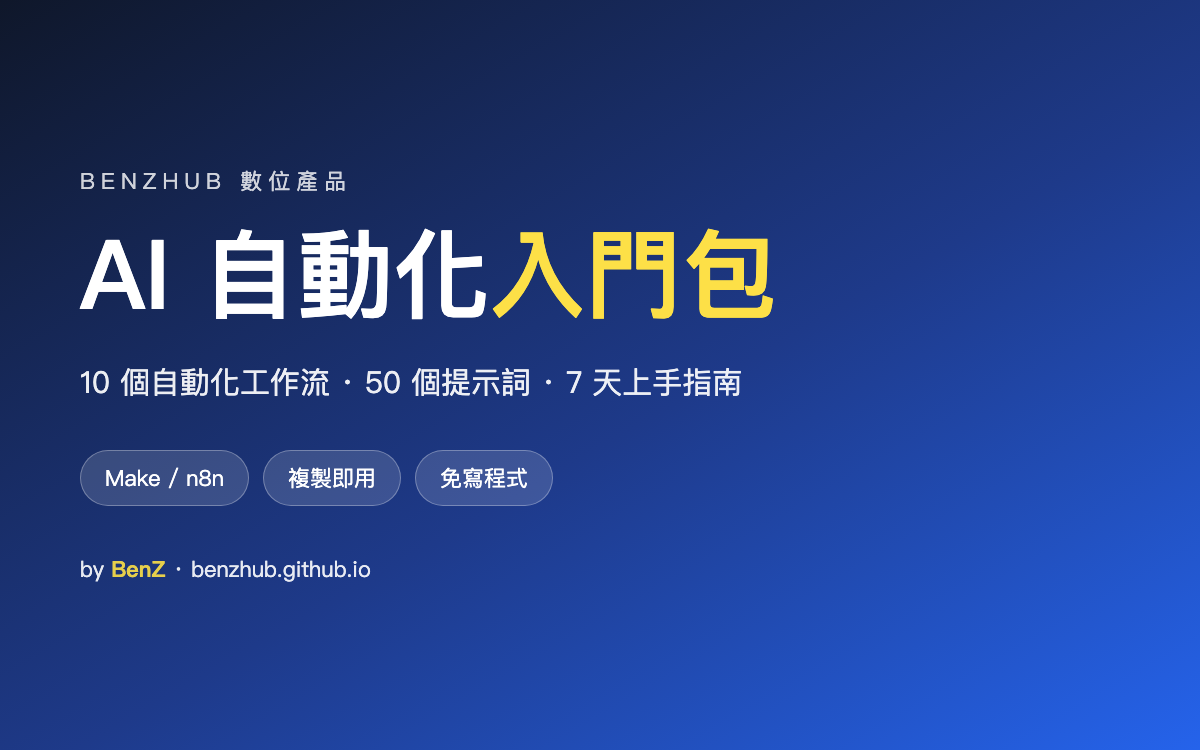
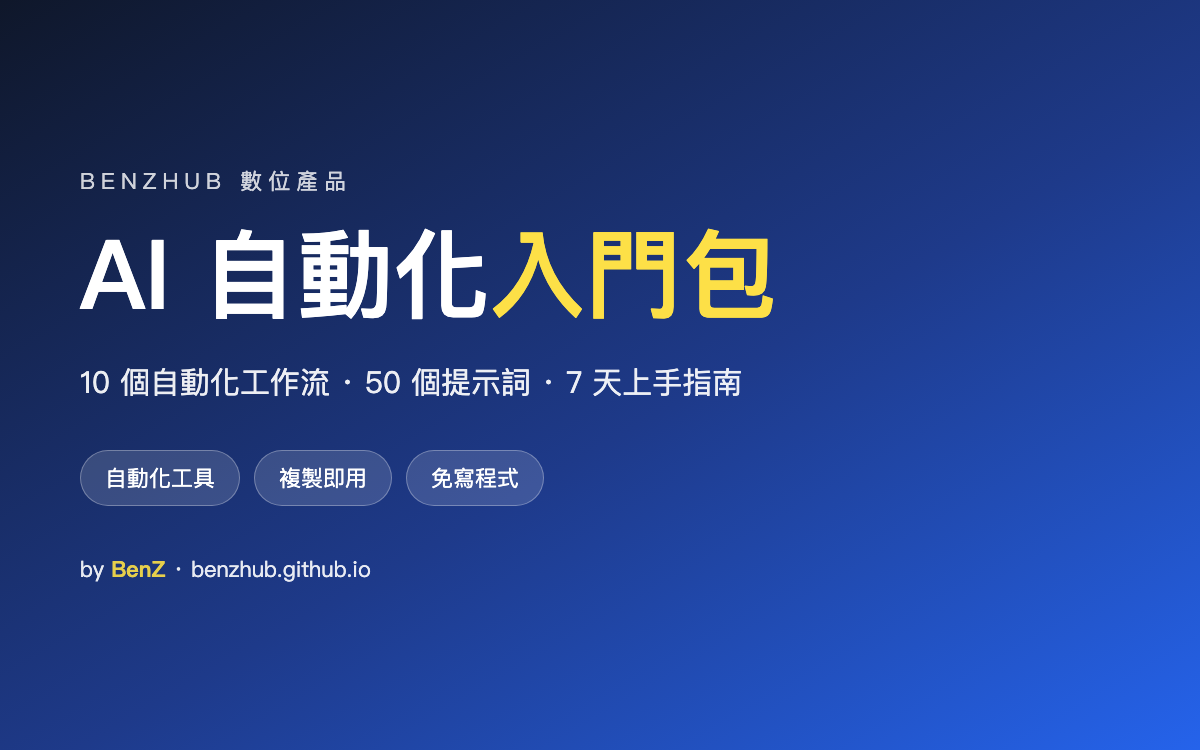
style: improve product buy button + genericize automation tool names

Changed region(s): [[0.0925, 0.5827, 0.4625, 0.6747]]

diff --git a/products/ai-starter-kit/index.html b/products/ai-starter-kit/index.html
@@ -27,5 +27,5 @@
 <a href=/en/ class="block px-4 py-2 text-sm text-zinc-600 dark:text-zinc-400 hover:bg-zinc-100 dark:hover:bg-zinc-700 transition-colors duration-200 no-underline">English</a>
 <a href=/zh-cn/ class="block px-4 py-2 text-sm text-zinc-600 dark:text-zinc-400 hover:bg-zinc-100 dark:hover:bg-zinc-700 transition-colors duration-200 no-underline">简体中文</a></div></div><div class="lang-switcher-mobile md:hidden mt-4 pt-4 border-t border-zinc-200 dark:border-zinc-700"><p class="text-xs text-zinc-400 dark:text-zinc-500 uppercase tracking-wider mb-2">Language</p><div class="flex gap-2"><span class="px-3 py-1.5 rounded-full text-xs font-medium bg-blue-500 text-white">繁體中文</span>
 <a href=/en/ class="px-3 py-1.5 rounded-full text-xs text-zinc-500 dark:text-zinc-400 bg-zinc-100 dark:bg-zinc-800 hover:bg-zinc-200 dark:hover:bg-zinc-700 transition-colors duration-200 no-underline">English</a>
-<a href=/zh-cn/ class="px-3 py-1.5 rounded-full text-xs text-zinc-500 dark:text-zinc-400 bg-zinc-100 dark:bg-zinc-800 hover:bg-zinc-200 dark:hover:bg-zinc-700 transition-colors duration-200 no-underline">简体中文</a></div></div></div></nav><script>document.getElementById("hamburgerbtn").addEventListener("click",function(){document.getElementById("mobileMenu").classList.toggle("active")}),window.addEventListener("scroll",function(){var e=document.getElementById("siteNav");window.scrollY>50?e.classList.add("scrolled"):e.classList.remove("scrolled")});function toggleNavSearch(){var e=document.getElementById("navSearchInput");e.classList.toggle("expanded"),e.classList.contains("expanded")&&e.focus()}function toggleLangMenu(){var e=document.getElementById("langDropdown");e.classList.toggle("hidden")}document.addEventListener("click",function(e){var t,o,n=document.getElementById("navSearchForm"),s=document.getElementById("navSearchInput");n&&s&&!n.contains(e.target)&&!e.target.closest('[aria-label="Toggle Search"]')&&s.classList.remove("expanded"),o=e.target.closest(".lang-switcher"),o||(t=document.getElementById("langDropdown"),t&&t.classList.add("hidden"))})</script><div class=nav-spacer></div><div class="container max-w-screen-xl mx-auto mt-4 flex-grow px-5 lg:px-0" id=content><div class=lg:mx-5><article class="max-w-3xl mx-auto px-5 py-8"><h1 class="text-3xl font-bold mb-3">AI 自動化入門包</h1><p class="text-lg text-zinc-600 dark:text-zinc-300 mb-6">把重複的工作交給 AI。10 個 step-by-step 自動化工作流 + 50 個複製即用的提示詞 + 7 天上手指南。</p><img src=/img/products/ai-starter-kit.png alt="AI 自動化入門包" class="w-full rounded-xl mb-8"><div class="bg-blue-50 dark:bg-zinc-800 rounded-xl p-6 mb-8"><h2 class="text-lg font-bold mb-3">包含內容</h2><ul class=space-y-2><li class="flex gap-2"><span class=text-blue-600>✓</span><span>10 個實戰自動化工作流(step-by-step 食譜,Make / n8n / GPTs)</span></li><li class="flex gap-2"><span class=text-blue-600>✓</span><span>50 個精選提示詞,分 6 大類、複製即用</span></li><li class="flex gap-2"><span class=text-blue-600>✓</span><span>新手 7 天啟動計畫,照著做就跑得起來</span></li><li class="flex gap-2"><span class=text-blue-600>✓</span><span>PDF 格式,手機電腦都能看,永久保存</span></li></ul></div><div class="prose dark:prose-invert max-w-none mb-10"><h2 id=你每天有多少時間花在重複的事上>你每天,有多少時間花在「重複的事」上?</h2><p>整理資料、回覆一樣的訊息、把長文改成社群貼文、抄會議筆記、對帳……
-這些事不難,但<strong>它們一直吃掉你本來可以拿去做更重要事情的時間</strong>。</p><p>AI 最實際的用途,不是拿來「聊天」,而是<strong>把這些重複勞動自動化</strong> —— 設定一次,之後自動跑。</p><h2 id=這份入門包給你可以今天就照做的操作>這份入門包,給你可以「今天就照做」的操作</h2><p>不是理論、不是「AI 很厲害」的空話。裡面是我實際在用、整理成 <strong>step-by-step 食譜</strong>的具體流程:</p><ul><li><strong>10 個實戰自動化工作流</strong> —— 每個都標明「觸發 → AI 處理 → 輸出」三段,附用到的工具與設定步驟。從「長文一鍵生成社群貼文」到「會議錄音自動出摘要與待辦」,挑一個最有感的,照著設定就能跑。</li><li><strong>50 個精選提示詞</strong> —— 分內容創作、行銷、客服、生產力、分析決策、程式技術 6 大類。把 <code>[中括號]</code> 換成你的內容,複製即用。</li><li><strong>新手 7 天啟動計畫</strong> —— 不用一次全做。7 天內讓「一個」自動化真正跑起來,建立手感與信心。</li></ul><h2 id=適合誰>適合誰</h2><p>想用 AI 幫自己省時間、但不知道「具體要怎麼做」的人。<strong>不需要會寫程式</strong> —— 工作流都用免寫程式的工具(Make / n8n)拖拉設定。</p><h2 id=你會得到的不只是一份-pdf>你會得到的,不只是一份 PDF</h2><p>而是一個能複製到任何情境的思考模型:<strong>觸發 → AI 處理 → 輸出</strong>。看懂這三段,你就能自己設計任何自動化。</p><p>一個流程、省下一小時,就已經開始複利。</p></div><div class="text-center bg-zinc-50 dark:bg-zinc-800 rounded-xl p-8 mb-10"><div class="text-3xl font-bold mb-4">690 <span class=text-lg>TWD</span></div><a href=https://buy.stripe.com/28E3co0YXdqA7n4eEKdEs01 class="inline-block bg-blue-600 hover:bg-blue-700 text-white font-semibold px-8 py-3 rounded-lg no-underline">立即購買</a><p class="text-xs text-zinc-500 mt-3">安全結帳由 Stripe 提供 · 付款後下載連結寄到你的信箱</p></div><div class=mb-8><h2 class="text-xl font-bold mb-4">常見問題</h2><div class=mb-4><p class=font-semibold>購買後怎麼拿到檔案?</p><p class="text-zinc-600 dark:text-zinc-300">付款完成後,專屬下載連結會立即寄到你結帳時填的 email。點連結即可下載 PDF。</p></div><div class=mb-4><p class=font-semibold>這適合完全不懂技術的人嗎?</p><p class="text-zinc-600 dark:text-zinc-300">適合。工作流都是「免寫程式」的食譜(用 Make/n8n 拖拉設定),並附新手 7 天計畫,一步步帶你跑起來。</p></div><div class=mb-4><p class=font-semibold>跟免費的「AI 賺錢工具地圖」有什麼不同?</p><p class="text-zinc-600 dark:text-zinc-300">工具地圖告訴你「方向」;這份入門包給你「可以直接照做的操作」—— 具體的自動化食譜與提示詞。</p></div><div class=mb-4><p class=font-semibold>可以退款嗎?</p><p class="text-zinc-600 dark:text-zinc-300">數位產品原則上不退款;若檔案打不開或有問題,直接回信我會馬上處理。</p></div></div></article></div></div><footer class="site-footer bg-zinc-50 dark:bg-[#0a0a0a]"><p>&copy; 2026 <a href=https://benzhub.github.io/ class="text-zinc-500 hover:text-zinc-700 dark:hover:text-zinc-300 transition-colors duration-200">BenzHub</a></p></footer><script src=https://challenges.cloudflare.com/turnstile/v0/api.js async defer></script><script src=/js/subscribe.js defer></script><script>(function(e,t){function o(){var n,e=t.createElement("script");e.async=!0,e.src="https://pagead2.googlesyndication.com/pagead/js/adsbygoogle.js?client=ca-pub-4883636813621606",e.crossOrigin="anonymous",n=t.getElementsByTagName("script")[0],n.parentNode.insertBefore(e,n)}var s=!1;function n(){s===!1&&(s=!0,e.removeEventListener("scroll",n),e.removeEventListener("mousemove",n),e.removeEventListener("mousedown",n),e.removeEventListener("touchstart",n),e.removeEventListener("keydown",n),o())}e.addEventListener("scroll",n),e.addEventListener("mousemove",n),e.addEventListener("mousedown",n),e.addEventListener("touchstart",n),e.addEventListener("keydown",n),e.addEventListener("load",function(){e.pageYOffset&&(n(),e.setTimeout(n,3e3))})})(window,document)</script><script>var icon=document.getElementById("icon"),icon2=document.getElementById("icon2");document.documentElement.classList.contains("dark")||localStorage.theme==="dark"||!("theme"in localStorage)&&window.matchMedia("(prefers-color-scheme: dark)").matches?(icon&&(icon.classList.remove("icon-moon"),icon.classList.add("icon-sun")),icon2&&(icon2.classList.remove("icon-moon"),icon2.classList.add("icon-sun")),document.documentElement.classList.add("dark")):document.documentElement.classList.remove("dark");function toggleDarkMode(){document.documentElement.classList.contains("dark")?(icon&&(icon.classList.remove("icon-sun"),icon.classList.add("icon-moon")),icon2&&(icon2.classList.remove("icon-sun"),icon2.classList.add("icon-moon")),document.documentElement.classList.remove("dark"),localStorage.theme="light"):(icon&&(icon.classList.remove("icon-moon"),icon.classList.add("icon-sun")),icon2&&(icon2.classList.remove("icon-moon"),icon2.classList.add("icon-sun")),document.documentElement.classList.add("dark"),localStorage.theme="dark")}document.addEventListener("DOMContentLoaded",function(){var e=new IntersectionObserver(function(t){t.forEach(function(t){t.isIntersecting&&(t.target.classList.add("visible"),e.unobserve(t.target))})},{threshold:0});document.querySelectorAll(".fade-in").forEach(function(t){e.observe(t)})})</script></body></html>
+<a href=/zh-cn/ class="px-3 py-1.5 rounded-full text-xs text-zinc-500 dark:text-zinc-400 bg-zinc-100 dark:bg-zinc-800 hover:bg-zinc-200 dark:hover:bg-zinc-700 transition-colors duration-200 no-underline">简体中文</a></div></div></div></nav><script>document.getElementById("hamburgerbtn").addEventListener("click",function(){document.getElementById("mobileMenu").classList.toggle("active")}),window.addEventListener("scroll",function(){var e=document.getElementById("siteNav");window.scrollY>50?e.classList.add("scrolled"):e.classList.remove("scrolled")});function toggleNavSearch(){var e=document.getElementById("navSearchInput");e.classList.toggle("expanded"),e.classList.contains("expanded")&&e.focus()}function toggleLangMenu(){var e=document.getElementById("langDropdown");e.classList.toggle("hidden")}document.addEventListener("click",function(e){var t,o,n=document.getElementById("navSearchForm"),s=document.getElementById("navSearchInput");n&&s&&!n.contains(e.target)&&!e.target.closest('[aria-label="Toggle Search"]')&&s.classList.remove("expanded"),o=e.target.closest(".lang-switcher"),o||(t=document.getElementById("langDropdown"),t&&t.classList.add("hidden"))})</script><div class=nav-spacer></div><div class="container max-w-screen-xl mx-auto mt-4 flex-grow px-5 lg:px-0" id=content><div class=lg:mx-5><article class="max-w-3xl mx-auto px-5 py-8"><h1 class="text-3xl font-bold mb-3">AI 自動化入門包</h1><p class="text-lg text-zinc-600 dark:text-zinc-300 mb-6">把重複的工作交給 AI。10 個 step-by-step 自動化工作流 + 50 個複製即用的提示詞 + 7 天上手指南。</p><img src=/img/products/ai-starter-kit.png alt="AI 自動化入門包" class="w-full rounded-xl mb-8"><div class="bg-blue-50 dark:bg-zinc-800 rounded-xl p-6 mb-8"><h2 class="text-lg font-bold mb-3">包含內容</h2><ul class=space-y-2><li class="flex gap-2"><span class=text-blue-600>✓</span><span>10 個實戰自動化工作流,step-by-step 食譜,免寫程式</span></li><li class="flex gap-2"><span class=text-blue-600>✓</span><span>50 個精選提示詞,分 6 大類、複製即用</span></li><li class="flex gap-2"><span class=text-blue-600>✓</span><span>新手 7 天啟動計畫,照著做就跑得起來</span></li><li class="flex gap-2"><span class=text-blue-600>✓</span><span>PDF 格式,手機電腦都能看,永久保存</span></li></ul></div><div class="prose dark:prose-invert max-w-none mb-10"><h2 id=你每天有多少時間花在重複的事上>你每天,有多少時間花在「重複的事」上?</h2><p>整理資料、回覆一樣的訊息、把長文改成社群貼文、抄會議筆記、對帳……
+這些事不難,但<strong>它們一直吃掉你本來可以拿去做更重要事情的時間</strong>。</p><p>AI 最實際的用途,不是拿來「聊天」,而是<strong>把這些重複勞動自動化</strong> —— 設定一次,之後自動跑。</p><h2 id=這份入門包給你可以今天就照做的操作>這份入門包,給你可以「今天就照做」的操作</h2><p>不是理論、不是「AI 很厲害」的空話。裡面是我實際在用、整理成 <strong>step-by-step 食譜</strong>的具體流程:</p><ul><li><strong>10 個實戰自動化工作流</strong> —— 每個都標明「觸發 → AI 處理 → 輸出」三段,附用到的工具與設定步驟。從「長文一鍵生成社群貼文」到「會議錄音自動出摘要與待辦」,挑一個最有感的,照著設定就能跑。</li><li><strong>50 個精選提示詞</strong> —— 分內容創作、行銷、客服、生產力、分析決策、程式技術 6 大類。把 <code>[中括號]</code> 換成你的內容,複製即用。</li><li><strong>新手 7 天啟動計畫</strong> —— 不用一次全做。7 天內讓「一個」自動化真正跑起來,建立手感與信心。</li></ul><h2 id=適合誰>適合誰</h2><p>想用 AI 幫自己省時間、但不知道「具體要怎麼做」的人。<strong>不需要會寫程式</strong> —— 工作流都用免寫程式的視覺化自動化工具,拖拉設定即可。</p><h2 id=你會得到的不只是一份-pdf>你會得到的,不只是一份 PDF</h2><p>而是一個能複製到任何情境的思考模型:<strong>觸發 → AI 處理 → 輸出</strong>。看懂這三段,你就能自己設計任何自動化。</p><p>一個流程、省下一小時,就已經開始複利。</p></div><div class="text-center bg-gradient-to-b from-blue-50 to-white dark:from-zinc-800 dark:to-zinc-900 border border-blue-100 dark:border-zinc-700 rounded-2xl px-6 py-10 mb-10"><div class="flex items-baseline justify-center gap-2 mb-1"><span class="text-5xl font-extrabold text-zinc-900 dark:text-white">NT$ 690</span></div><p class="text-sm text-zinc-500 mb-6">一次購買 · 永久使用 · 立即下載</p><a href=https://buy.stripe.com/28E3co0YXdqA7n4eEKdEs01 class="inline-flex items-center justify-center gap-2 w-full sm:w-auto bg-blue-600 hover:bg-blue-700 active:bg-blue-800 text-white text-lg font-bold tracking-wide px-14 py-4 rounded-xl shadow-lg shadow-blue-600/30 hover:shadow-xl hover:-translate-y-0.5 transition-all duration-200 no-underline">立即購買 <span aria-hidden=true>→</span></a><p class="text-xs text-zinc-500 mt-4">🔒 安全結帳由 Stripe 提供 · 付款後下載連結立即寄到你的信箱</p></div><div class=mb-8><h2 class="text-xl font-bold mb-4">常見問題</h2><div class=mb-4><p class=font-semibold>購買後怎麼拿到檔案?</p><p class="text-zinc-600 dark:text-zinc-300">付款完成後,專屬下載連結會立即寄到你結帳時填的 email。點連結即可下載 PDF。</p></div><div class=mb-4><p class=font-semibold>這適合完全不懂技術的人嗎?</p><p class="text-zinc-600 dark:text-zinc-300">適合。工作流都是「免寫程式」的食譜,用視覺化的自動化工具拖拉設定即可,並附新手 7 天計畫,一步步帶你跑起來。</p></div><div class=mb-4><p class=font-semibold>跟免費的「AI 賺錢工具地圖」有什麼不同?</p><p class="text-zinc-600 dark:text-zinc-300">工具地圖告訴你「方向」;這份入門包給你「可以直接照做的操作」—— 具體的自動化食譜與提示詞。</p></div><div class=mb-4><p class=font-semibold>可以退款嗎?</p><p class="text-zinc-600 dark:text-zinc-300">數位產品原則上不退款;若檔案打不開或有問題,直接回信我會馬上處理。</p></div></div></article></div></div><footer class="site-footer bg-zinc-50 dark:bg-[#0a0a0a]"><p>&copy; 2026 <a href=https://benzhub.github.io/ class="text-zinc-500 hover:text-zinc-700 dark:hover:text-zinc-300 transition-colors duration-200">BenzHub</a></p></footer><script src=https://challenges.cloudflare.com/turnstile/v0/api.js async defer></script><script src=/js/subscribe.js defer></script><script>(function(e,t){function o(){var n,e=t.createElement("script");e.async=!0,e.src="https://pagead2.googlesyndication.com/pagead/js/adsbygoogle.js?client=ca-pub-4883636813621606",e.crossOrigin="anonymous",n=t.getElementsByTagName("script")[0],n.parentNode.insertBefore(e,n)}var s=!1;function n(){s===!1&&(s=!0,e.removeEventListener("scroll",n),e.removeEventListener("mousemove",n),e.removeEventListener("mousedown",n),e.removeEventListener("touchstart",n),e.removeEventListener("keydown",n),o())}e.addEventListener("scroll",n),e.addEventListener("mousemove",n),e.addEventListener("mousedown",n),e.addEventListener("touchstart",n),e.addEventListener("keydown",n),e.addEventListener("load",function(){e.pageYOffset&&(n(),e.setTimeout(n,3e3))})})(window,document)</script><script>var icon=document.getElementById("icon"),icon2=document.getElementById("icon2");document.documentElement.classList.contains("dark")||localStorage.theme==="dark"||!("theme"in localStorage)&&window.matchMedia("(prefers-color-scheme: dark)").matches?(icon&&(icon.classList.remove("icon-moon"),icon.classList.add("icon-sun")),icon2&&(icon2.classList.remove("icon-moon"),icon2.classList.add("icon-sun")),document.documentElement.classList.add("dark")):document.documentElement.classList.remove("dark");function toggleDarkMode(){document.documentElement.classList.contains("dark")?(icon&&(icon.classList.remove("icon-sun"),icon.classList.add("icon-moon")),icon2&&(icon2.classList.remove("icon-sun"),icon2.classList.add("icon-moon")),document.documentElement.classList.remove("dark"),localStorage.theme="light"):(icon&&(icon.classList.remove("icon-moon"),icon.classList.add("icon-sun")),icon2&&(icon2.classList.remove("icon-moon"),icon2.classList.add("icon-sun")),document.documentElement.classList.add("dark"),localStorage.theme="dark")}document.addEventListener("DOMContentLoaded",function(){var e=new IntersectionObserver(function(t){t.forEach(function(t){t.isIntersecting&&(t.target.classList.add("visible"),e.unobserve(t.target))})},{threshold:0});document.querySelectorAll(".fade-in").forEach(function(t){e.observe(t)})})</script></body></html>

diff --git a/tags/nodejs/index.html b/tags/nodejs/index.html
@@ -1,4 +1,4 @@
-<!doctype html><html lang=zh-TW><head><script async src="https://www.googletagmanager.com/gtag/js?id=G-FSEWPBJMJT"></script><script>window.dataLayer=window.dataLayer||[];function gtag(){dataLayer.push(arguments)}gtag("js",new Date),gtag("config","G-FSEWPBJMJT")</script><title>NodeJS | BenzHub</title><meta charset=utf-8><meta name=viewport content="width=device-width,initial-scale=1,minimum-scale=1"><link rel=preconnect href=https://fonts.googleapis.com><link rel=preconnect href=https://fonts.gstatic.com crossorigin><link href="https://fonts.googleapis.com/css2?family=Inter:wght@300;400;500;600;700&display=swap" rel=stylesheet><link rel=apple-touch-icon sizes=180x180 href=/favicon/apple-touch-icon.png><link rel=icon type=image/png sizes=32x32 href=/favicon/favicon-32x32.png><link rel=icon type=image/png sizes=16x16 href=/favicon/favicon-16x16.png><link rel=manifest href=/favicon/site.webmanifest><link rel=mask-icon href=/favicon/safari-pinned-tab.svg color=#5bbad5><link rel="shortcut icon" href=/favicon/favicon.ico><meta name=theme-color content="#fafafa"><meta property="og:title" content="NodeJS | BenzHub"><link rel=stylesheet href="/css/style.min.201494ddcd70f7b4383e7a5589da06d9fa8396271447024f86259380300d97f7.css"><link href=/css/blonde.min.css rel=stylesheet type=text/css media=print onload='this.media=" all"'><meta name=description content="BenzHub 技術部落格"><meta property="og:site_name" content="BenzHub"><meta property="og:description" content="BenzHub 技術部落格"><meta property="og:url" content="https://benzhub.github.io/tags/nodejs/"><meta property="og:type" content="website"><meta property="og:locale" content="zh_TW"><meta name=twitter:card content="summary_large_image"><meta name=twitter:site content><link rel=canonical href=https://benzhub.github.io/tags/nodejs/><meta name=twitter:description content="BenzHub 技術部落格"><meta property="article:published_time" content="2026-04-18T00:00:00+00:00"><meta property="article:updated_time" content="2026-05-16T00:00:00+00:00"><meta property="og:image" content="https://benzhub.github.io/"><meta property="og:image:url" content="https://benzhub.github.io/"><link rel=stylesheet href=/css/custom.css><i class="dark hidden"></i>
+<!doctype html><html lang=zh-TW><head><script async src="https://www.googletagmanager.com/gtag/js?id=G-FSEWPBJMJT"></script><script>window.dataLayer=window.dataLayer||[];function gtag(){dataLayer.push(arguments)}gtag("js",new Date),gtag("config","G-FSEWPBJMJT")</script><title>Nodejs | BenzHub</title><meta charset=utf-8><meta name=viewport content="width=device-width,initial-scale=1,minimum-scale=1"><link rel=preconnect href=https://fonts.googleapis.com><link rel=preconnect href=https://fonts.gstatic.com crossorigin><link href="https://fonts.googleapis.com/css2?family=Inter:wght@300;400;500;600;700&display=swap" rel=stylesheet><link rel=apple-touch-icon sizes=180x180 href=/favicon/apple-touch-icon.png><link rel=icon type=image/png sizes=32x32 href=/favicon/favicon-32x32.png><link rel=icon type=image/png sizes=16x16 href=/favicon/favicon-16x16.png><link rel=manifest href=/favicon/site.webmanifest><link rel=mask-icon href=/favicon/safari-pinned-tab.svg color=#5bbad5><link rel="shortcut icon" href=/favicon/favicon.ico><meta name=theme-color content="#fafafa"><meta property="og:title" content="Nodejs | BenzHub"><link rel=stylesheet href="/css/style.min.201494ddcd70f7b4383e7a5589da06d9fa8396271447024f86259380300d97f7.css"><link href=/css/blonde.min.css rel=stylesheet type=text/css media=print onload='this.media=" all"'><meta name=description content="BenzHub 技術部落格"><meta property="og:site_name" content="BenzHub"><meta property="og:description" content="BenzHub 技術部落格"><meta property="og:url" content="https://benzhub.github.io/tags/nodejs/"><meta property="og:type" content="website"><meta property="og:locale" content="zh_TW"><meta name=twitter:card content="summary_large_image"><meta name=twitter:site content><link rel=canonical href=https://benzhub.github.io/tags/nodejs/><meta name=twitter:description content="BenzHub 技術部落格"><meta property="article:published_time" content="2026-04-18T00:00:00+00:00"><meta property="article:updated_time" content="2026-05-16T00:00:00+00:00"><meta property="og:image" content="https://benzhub.github.io/"><meta property="og:image:url" content="https://benzhub.github.io/"><link rel=stylesheet href=/css/custom.css><i class="dark hidden"></i>
 <link rel=alternate hreflang=zh-TW href=https://benzhub.github.io/tags/nodejs/><link rel=alternate hreflang=en href=https://benzhub.github.io/en/tags/nodejs/><link rel=alternate hreflang=x-default href=https://benzhub.github.io/tags/nodejs/><link rel=alternate type=application/rss+xml title=BenzHub href=https://benzhub.github.io/tags/nodejs/index.xml></head><body class="font-sans bg-zinc-50 text-zinc-950 dark:bg-[#0a0a0a] dark:text-zinc-50"><nav class=site-nav id=siteNav><div class="container max-w-screen-xl mx-auto px-5 lg:px-6 flex items-center justify-between w-full"><a href=https://benzhub.github.io/ class="text-lg font-semibold tracking-wide text-zinc-950 dark:text-zinc-50 hover:opacity-70 transition-opacity duration-200">BenzHub</a><div class="hidden md:flex items-center gap-6"><a href=/ class="text-sm text-zinc-500 hover:text-zinc-950 dark:text-zinc-400 dark:hover:text-zinc-50 transition-colors duration-200">首頁
 </a><a href=/about/ class="text-sm text-zinc-500 hover:text-zinc-950 dark:text-zinc-400 dark:hover:text-zinc-50 transition-colors duration-200">關於
 </a><a href=/contact/ class="text-sm text-zinc-500 hover:text-zinc-950 dark:text-zinc-400 dark:hover:text-zinc-50 transition-colors duration-200">聯絡
@@ -27,7 +27,7 @@
 <a href=https://benzhub.github.io/en/tags/nodejs/ class="block px-4 py-2 text-sm text-zinc-600 dark:text-zinc-400 hover:bg-zinc-100 dark:hover:bg-zinc-700 transition-colors duration-200 no-underline">English</a>
 <a href=/zh-cn/ class="block px-4 py-2 text-sm text-zinc-600 dark:text-zinc-400 hover:bg-zinc-100 dark:hover:bg-zinc-700 transition-colors duration-200 no-underline">简体中文</a></div></div><div class="lang-switcher-mobile md:hidden mt-4 pt-4 border-t border-zinc-200 dark:border-zinc-700"><p class="text-xs text-zinc-400 dark:text-zinc-500 uppercase tracking-wider mb-2">Language</p><div class="flex gap-2"><span class="px-3 py-1.5 rounded-full text-xs font-medium bg-blue-500 text-white">繁體中文</span>
 <a href=https://benzhub.github.io/en/tags/nodejs/ class="px-3 py-1.5 rounded-full text-xs text-zinc-500 dark:text-zinc-400 bg-zinc-100 dark:bg-zinc-800 hover:bg-zinc-200 dark:hover:bg-zinc-700 transition-colors duration-200 no-underline">English</a>
-<a href=/zh-cn/ class="px-3 py-1.5 rounded-full text-xs text-zinc-500 dark:text-zinc-400 bg-zinc-100 dark:bg-zinc-800 hover:bg-zinc-200 dark:hover:bg-zinc-700 transition-colors duration-200 no-underline">简体中文</a></div></div></div></nav><script>document.getElementById("hamburgerbtn").addEventListener("click",function(){document.getElementById("mobileMenu").classList.toggle("active")}),window.addEventListener("scroll",function(){var e=document.getElementById("siteNav");window.scrollY>50?e.classList.add("scrolled"):e.classList.remove("scrolled")});function toggleNavSearch(){var e=document.getElementById("navSearchInput");e.classList.toggle("expanded"),e.classList.contains("expanded")&&e.focus()}function toggleLangMenu(){var e=document.getElementById("langDropdown");e.classList.toggle("hidden")}document.addEventListener("click",function(e){var t,o,n=document.getElementById("navSearchForm"),s=document.getElementById("navSearchInput");n&&s&&!n.contains(e.target)&&!e.target.closest('[aria-label="Toggle Search"]')&&s.classList.remove("expanded"),o=e.target.closest(".lang-switcher"),o||(t=document.getElementById("langDropdown"),t&&t.classList.add("hidden"))})</script><div class=nav-spacer></div><div class="container max-w-screen-xl mx-auto mt-4 flex-grow px-5 lg:px-0" id=content><div class=lg:mx-5><div class="grid grid-cols-3 gap-6 items-start"><div class="col-span-3 lg:col-span-2 mb-3"><h2 class="text-3xl font-light tracking-wide text-zinc-950 dark:text-zinc-50 mb-4 stagger">Node js</h2><a href=/post/javascript/056-fnm-commands/ class="block no-underline"><div class="post-card fade-in mt-4"><img alt=thumbnail class=post-card-thumb src=/img/javascript/056-fnm-commands.png><div class=post-card-content><div class="flex flex-wrap gap-1.5 mb-2"><span class=tag-pill>javascript</span>
+<a href=/zh-cn/ class="px-3 py-1.5 rounded-full text-xs text-zinc-500 dark:text-zinc-400 bg-zinc-100 dark:bg-zinc-800 hover:bg-zinc-200 dark:hover:bg-zinc-700 transition-colors duration-200 no-underline">简体中文</a></div></div></div></nav><script>document.getElementById("hamburgerbtn").addEventListener("click",function(){document.getElementById("mobileMenu").classList.toggle("active")}),window.addEventListener("scroll",function(){var e=document.getElementById("siteNav");window.scrollY>50?e.classList.add("scrolled"):e.classList.remove("scrolled")});function toggleNavSearch(){var e=document.getElementById("navSearchInput");e.classList.toggle("expanded"),e.classList.contains("expanded")&&e.focus()}function toggleLangMenu(){var e=document.getElementById("langDropdown");e.classList.toggle("hidden")}document.addEventListener("click",function(e){var t,o,n=document.getElementById("navSearchForm"),s=document.getElementById("navSearchInput");n&&s&&!n.contains(e.target)&&!e.target.closest('[aria-label="Toggle Search"]')&&s.classList.remove("expanded"),o=e.target.closest(".lang-switcher"),o||(t=document.getElementById("langDropdown"),t&&t.classList.add("hidden"))})</script><div class=nav-spacer></div><div class="container max-w-screen-xl mx-auto mt-4 flex-grow px-5 lg:px-0" id=content><div class=lg:mx-5><div class="grid grid-cols-3 gap-6 items-start"><div class="col-span-3 lg:col-span-2 mb-3"><h2 class="text-3xl font-light tracking-wide text-zinc-950 dark:text-zinc-50 mb-4 stagger">Nodejs</h2><a href=/post/javascript/056-fnm-commands/ class="block no-underline"><div class="post-card fade-in mt-4"><img alt=thumbnail class=post-card-thumb src=/img/javascript/056-fnm-commands.png><div class=post-card-content><div class="flex flex-wrap gap-1.5 mb-2"><span class=tag-pill>javascript</span>
 <span class=tag-pill>NodeJS</span>
 <span class=tag-pill>fnm</span>
 <span class=tag-pill>nvm</span>

diff --git a/tags/page/28/index.html b/tags/page/28/index.html
@@ -27,7 +27,7 @@
 <a href=https://benzhub.github.io/en/tags/ class="block px-4 py-2 text-sm text-zinc-600 dark:text-zinc-400 hover:bg-zinc-100 dark:hover:bg-zinc-700 transition-colors duration-200 no-underline">English</a>
 <a href=https://benzhub.github.io/zh-cn/tags/ class="block px-4 py-2 text-sm text-zinc-600 dark:text-zinc-400 hover:bg-zinc-100 dark:hover:bg-zinc-700 transition-colors duration-200 no-underline">简体中文</a></div></div><div class="lang-switcher-mobile md:hidden mt-4 pt-4 border-t border-zinc-200 dark:border-zinc-700"><p class="text-xs text-zinc-400 dark:text-zinc-500 uppercase tracking-wider mb-2">Language</p><div class="flex gap-2"><span class="px-3 py-1.5 rounded-full text-xs font-medium bg-blue-500 text-white">繁體中文</span>
 <a href=https://benzhub.github.io/en/tags/ class="px-3 py-1.5 rounded-full text-xs text-zinc-500 dark:text-zinc-400 bg-zinc-100 dark:bg-zinc-800 hover:bg-zinc-200 dark:hover:bg-zinc-700 transition-colors duration-200 no-underline">English</a>
-<a href=https://benzhub.github.io/zh-cn/tags/ class="px-3 py-1.5 rounded-full text-xs text-zinc-500 dark:text-zinc-400 bg-zinc-100 dark:bg-zinc-800 hover:bg-zinc-200 dark:hover:bg-zinc-700 transition-colors duration-200 no-underline">简体中文</a></div></div></div></nav><script>document.getElementById("hamburgerbtn").addEventListener("click",function(){document.getElementById("mobileMenu").classList.toggle("active")}),window.addEventListener("scroll",function(){var e=document.getElementById("siteNav");window.scrollY>50?e.classList.add("scrolled"):e.classList.remove("scrolled")});function toggleNavSearch(){var e=document.getElementById("navSearchInput");e.classList.toggle("expanded"),e.classList.contains("expanded")&&e.focus()}function toggleLangMenu(){var e=document.getElementById("langDropdown");e.classList.toggle("hidden")}document.addEventListener("click",function(e){var t,o,n=document.getElementById("navSearchForm"),s=document.getElementById("navSearchInput");n&&s&&!n.contains(e.target)&&!e.target.closest('[aria-label="Toggle Search"]')&&s.classList.remove("expanded"),o=e.target.closest(".lang-switcher"),o||(t=document.getElementById("langDropdown"),t&&t.classList.add("hidden"))})</script><div class=nav-spacer></div><div class="container max-w-screen-xl mx-auto mt-4 flex-grow px-5 lg:px-0" id=content><div class=lg:mx-5><div class="grid grid-cols-3 gap-6 items-start"><div class="col-span-3 lg:col-span-2 mb-3"><h2 class="text-3xl font-light tracking-wide text-zinc-950 dark:text-zinc-50 mb-4 stagger">Tags</h2><a href=/tags/nodejs/ class="block no-underline"><div class="post-card fade-in mt-4"><img alt=thumbnail class=post-card-thumb src=/img/default.jpg><div class=post-card-content><h3 class="text-lg font-semibold text-zinc-950 dark:text-zinc-50 mb-1 leading-snug">NodeJS</h3><p class="text-sm text-zinc-500 dark:text-zinc-400 line-clamp-2">...</p><p class="text-xs text-zinc-400 dark:text-zinc-500 mt-2.5 flex items-center gap-1"><svg class="w-3 h-3" fill="none" stroke="currentColor" stroke-width="2" viewBox="0 0 24 24"><circle cx="12" cy="12" r="10"/><path d="M12 6v6l4 2"/></svg>
+<a href=https://benzhub.github.io/zh-cn/tags/ class="px-3 py-1.5 rounded-full text-xs text-zinc-500 dark:text-zinc-400 bg-zinc-100 dark:bg-zinc-800 hover:bg-zinc-200 dark:hover:bg-zinc-700 transition-colors duration-200 no-underline">简体中文</a></div></div></div></nav><script>document.getElementById("hamburgerbtn").addEventListener("click",function(){document.getElementById("mobileMenu").classList.toggle("active")}),window.addEventListener("scroll",function(){var e=document.getElementById("siteNav");window.scrollY>50?e.classList.add("scrolled"):e.classList.remove("scrolled")});function toggleNavSearch(){var e=document.getElementById("navSearchInput");e.classList.toggle("expanded"),e.classList.contains("expanded")&&e.focus()}function toggleLangMenu(){var e=document.getElementById("langDropdown");e.classList.toggle("hidden")}document.addEventListener("click",function(e){var t,o,n=document.getElementById("navSearchForm"),s=document.getElementById("navSearchInput");n&&s&&!n.contains(e.target)&&!e.target.closest('[aria-label="Toggle Search"]')&&s.classList.remove("expanded"),o=e.target.closest(".lang-switcher"),o||(t=document.getElementById("langDropdown"),t&&t.classList.add("hidden"))})</script><div class=nav-spacer></div><div class="container max-w-screen-xl mx-auto mt-4 flex-grow px-5 lg:px-0" id=content><div class=lg:mx-5><div class="grid grid-cols-3 gap-6 items-start"><div class="col-span-3 lg:col-span-2 mb-3"><h2 class="text-3xl font-light tracking-wide text-zinc-950 dark:text-zinc-50 mb-4 stagger">Tags</h2><a href=/tags/nodejs/ class="block no-underline"><div class="post-card fade-in mt-4"><img alt=thumbnail class=post-card-thumb src=/img/default.jpg><div class=post-card-content><h3 class="text-lg font-semibold text-zinc-950 dark:text-zinc-50 mb-1 leading-snug">Nodejs</h3><p class="text-sm text-zinc-500 dark:text-zinc-400 line-clamp-2">...</p><p class="text-xs text-zinc-400 dark:text-zinc-500 mt-2.5 flex items-center gap-1"><svg class="w-3 h-3" fill="none" stroke="currentColor" stroke-width="2" viewBox="0 0 24 24"><circle cx="12" cy="12" r="10"/><path d="M12 6v6l4 2"/></svg>
 2026/04/18</p></div></div></a><a href=/tags/nvm/ class="block no-underline"><div class="post-card fade-in mt-4"><img alt=thumbnail class=post-card-thumb src=/img/default.jpg><div class=post-card-content><h3 class="text-lg font-semibold text-zinc-950 dark:text-zinc-50 mb-1 leading-snug">Nvm</h3><p class="text-sm text-zinc-500 dark:text-zinc-400 line-clamp-2">...</p><p class="text-xs text-zinc-400 dark:text-zinc-500 mt-2.5 flex items-center gap-1"><svg class="w-3 h-3" fill="none" stroke="currentColor" stroke-width="2" viewBox="0 0 24 24"><circle cx="12" cy="12" r="10"/><path d="M12 6v6l4 2"/></svg>
 2026/04/18</p></div></div></a><a href=/tags/%E7%89%88%E6%9C%AC%E7%AE%A1%E7%90%86/ class="block no-underline"><div class="post-card fade-in mt-4"><img alt=thumbnail class=post-card-thumb src=/img/default.jpg><div class=post-card-content><h3 class="text-lg font-semibold text-zinc-950 dark:text-zinc-50 mb-1 leading-snug">版本管理</h3><p class="text-sm text-zinc-500 dark:text-zinc-400 line-clamp-2">...</p><p class="text-xs text-zinc-400 dark:text-zinc-500 mt-2.5 flex items-center gap-1"><svg class="w-3 h-3" fill="none" stroke="currentColor" stroke-width="2" viewBox="0 0 24 24"><circle cx="12" cy="12" r="10"/><path d="M12 6v6l4 2"/></svg>
 2026/04/18</p></div></div></a><a href=/tags/windows/ class="block no-underline"><div class="post-card fade-in mt-4"><img alt=thumbnail class=post-card-thumb src=/img/default.jpg><div class=post-card-content><h3 class="text-lg font-semibold text-zinc-950 dark:text-zinc-50 mb-1 leading-snug">Windows</h3><p class="text-sm text-zinc-500 dark:text-zinc-400 line-clamp-2">...</p><p class="text-xs text-zinc-400 dark:text-zinc-500 mt-2.5 flex items-center gap-1"><svg class="w-3 h-3" fill="none" stroke="currentColor" stroke-width="2" viewBox="0 0 24 24"><circle cx="12" cy="12" r="10"/><path d="M12 6v6l4 2"/></svg>